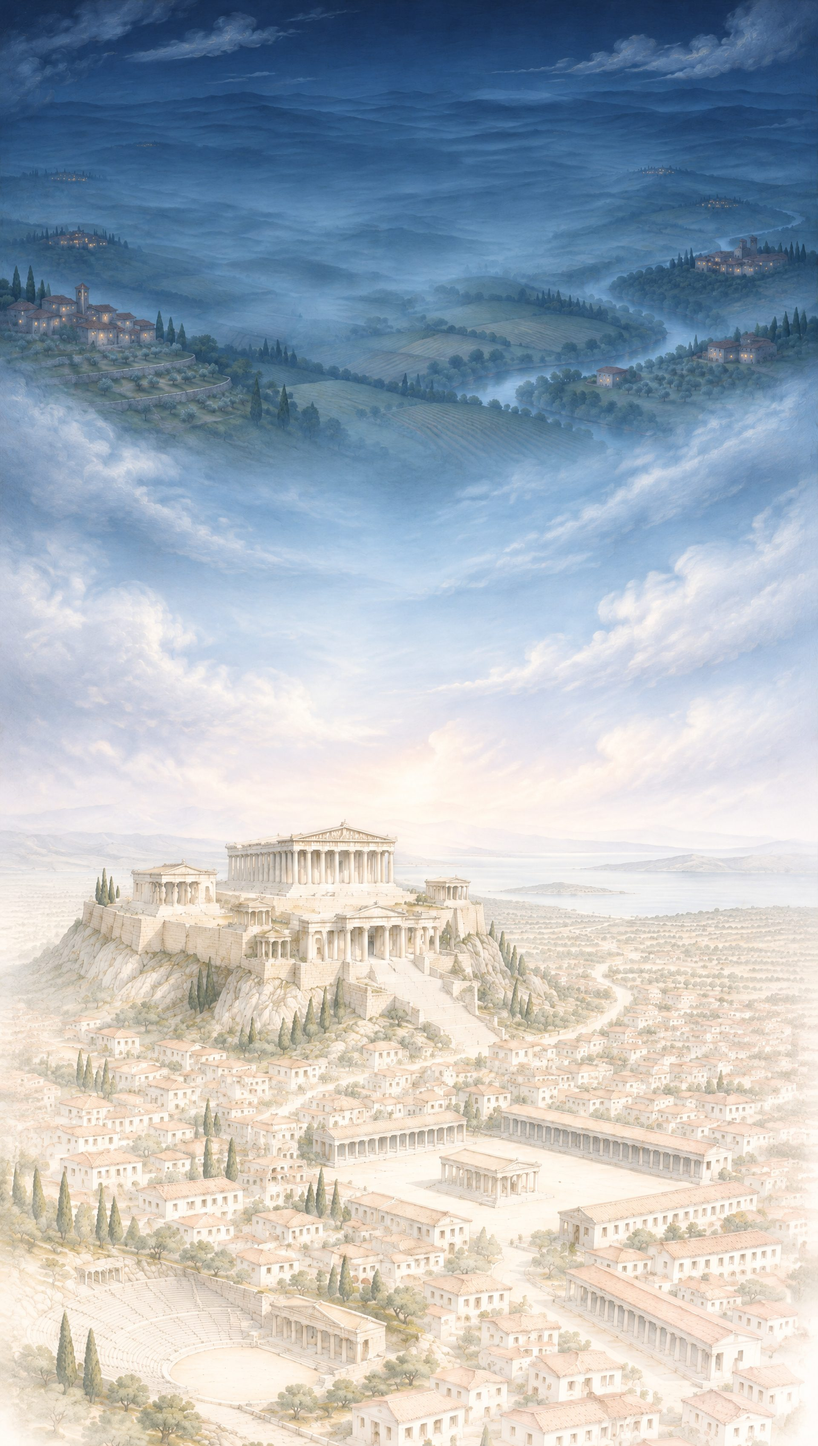
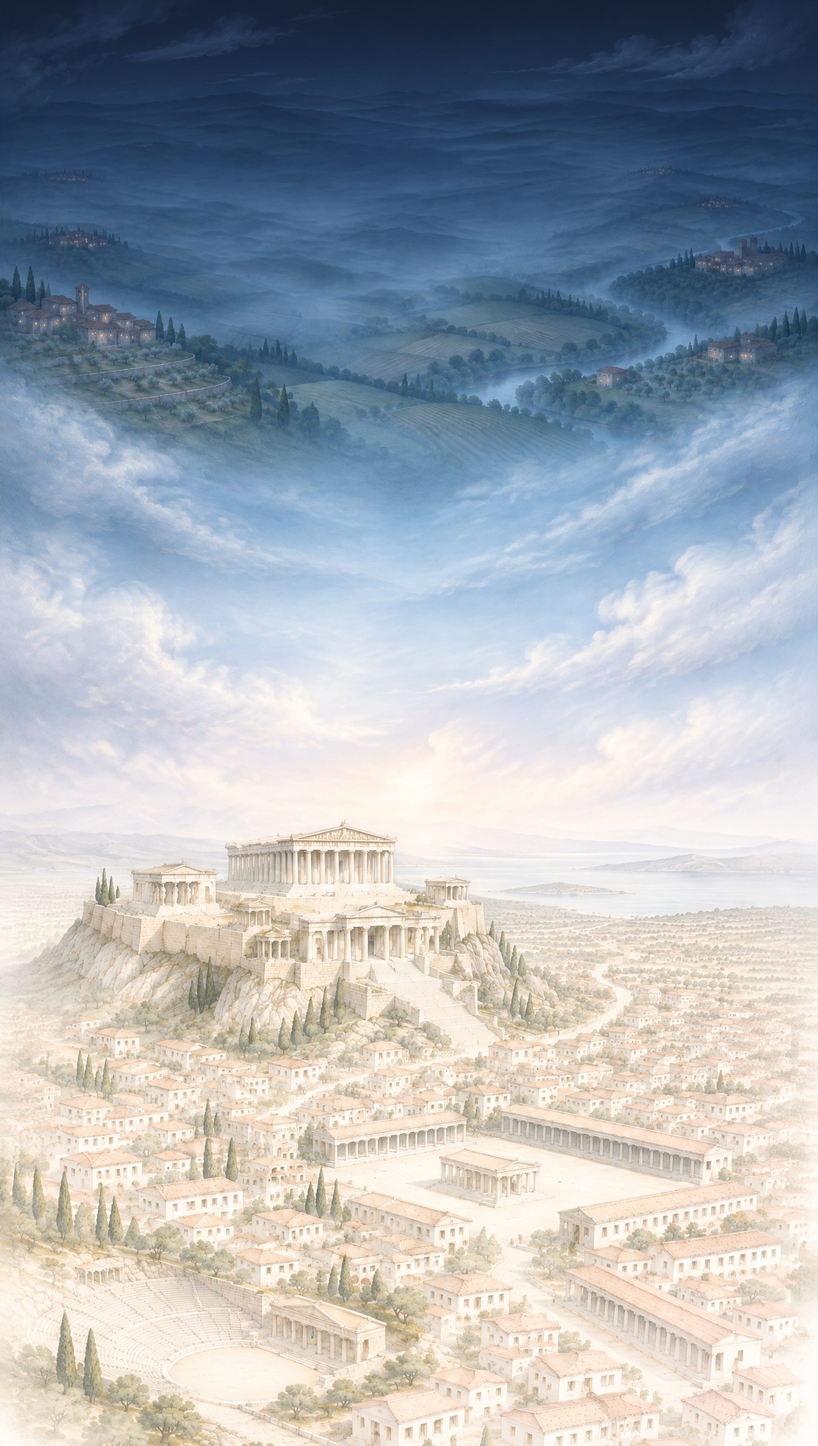
Mockup: fade the landing into the painting; hold it during the globe
The band under the landing starts in the landing's exact navy and fades
out over its full height, and the painting's night top is regraded to
that navy, so there is no visible edge. The backdrop stops drifting
while the Our Network stage is pinned, so only the globe turns.

Claude-Session: https://claude.ai/code/session_01VMC75dovcyg8xHeWok5tKD

Changed region(s): [[0.0, 0.0, 1.0, 0.2186]]

diff --git a/index.html b/index.html
@@ -558,7 +558,9 @@ input:focus, textarea:focus { outline: none; border-color: var(--ink); }
 /* the band under the landing is now a window onto the descent painting, which starts in the same night */
 .night-to-day { height: clamp(360px, 60vh, 640px); background: transparent; margin-top: 0; padding-top: 0; }
 .night-bleed { display: none; }
-.night-to-day::after { background: linear-gradient(to bottom, rgba(27, 40, 64, .7) 0%, rgba(27, 40, 64, .25) 10%, rgba(27, 40, 64, 0) 24%); }
+.night-to-day::after { background: linear-gradient(to bottom,
+  #1b2840 0%, rgba(27, 40, 64, .94) 12%, rgba(27, 40, 64, .8) 26%, rgba(27, 40, 64, .58) 42%,
+  rgba(27, 40, 64, .34) 60%, rgba(27, 40, 64, .14) 78%, rgba(27, 40, 64, 0) 100%); }
 .city-backdrop { position: fixed; inset: 0; z-index: -1; overflow: hidden; background: #1b2840; pointer-events: none; }
 .city-backdrop img { position: absolute; left: 0; top: 0; width: 100%; height: auto; max-width: none; will-change: transform; }
 .city-backdrop .veil { position: absolute; inset: 0; background: rgba(255, 255, 255, .5); opacity: 0; will-change: opacity; }
@@ -1082,8 +1084,11 @@ input:focus, textarea:focus { outline: none; border-color: var(--ink); }
   var queued = false;
   function update() {
     queued = false;
-    var start = net.offsetTop - innerHeight, end = document.documentElement.scrollHeight - innerHeight;
-    var p = Math.min(1, Math.max(0, (scrollY - start) / Math.max(1, end - start)));
+    // the backdrop holds still while the Our Network stage is pinned (only the globe turns there)
+    var pin = document.getElementById("network"), pinStart = pin ? pin.offsetTop : 0, pinLen = pin ? Math.max(0, pin.offsetHeight - innerHeight) : 0;
+    var start = net.offsetTop - innerHeight, end = document.documentElement.scrollHeight - innerHeight - pinLen;
+    var y = scrollY - Math.min(pinLen, Math.max(0, scrollY - pinStart));
+    var p = Math.min(1, Math.max(0, (y - start) / Math.max(1, end - start)));
     var travel = Math.max(0, img.offsetHeight - innerHeight);
     img.style.transform = "translate3d(0," + (-p * travel).toFixed(1) + "px,0)";
     // a light veil comes in once the view is through the clouds, so navy text stays readable
